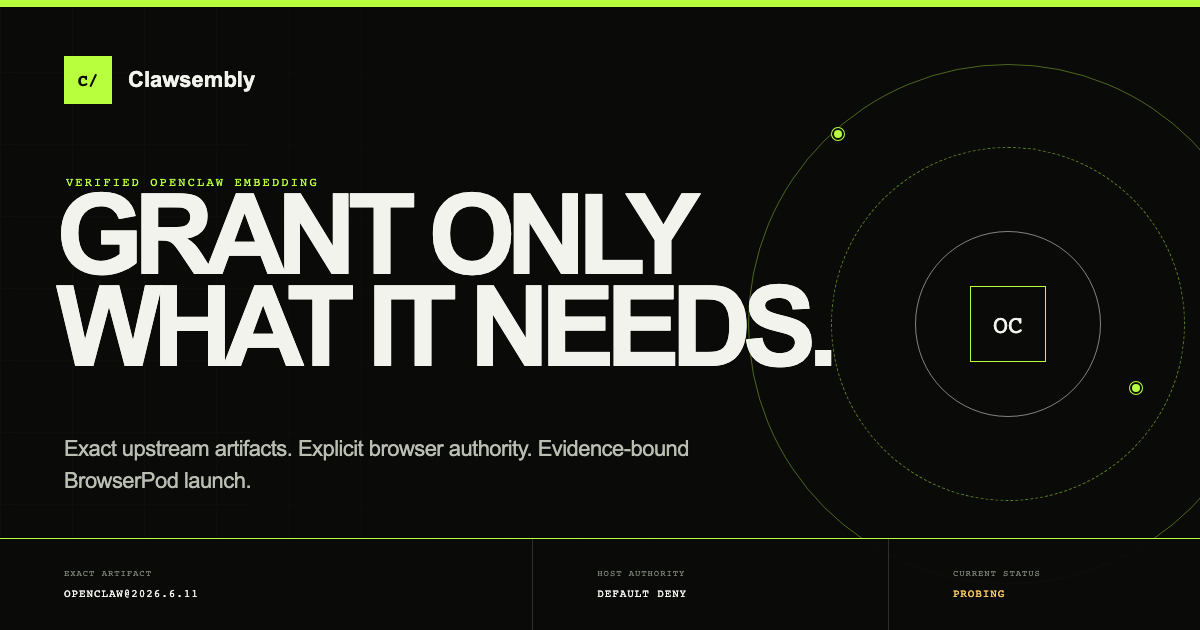
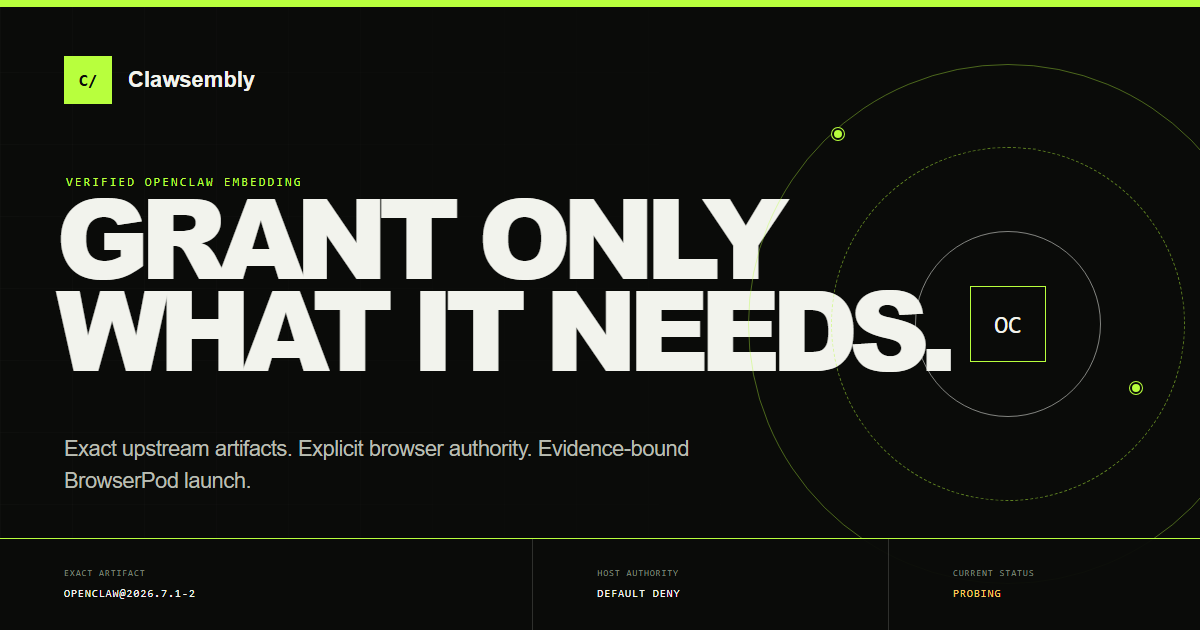
Record the reviewed 0.1.0-alpha.5 npm publication (#66)
The v0.1.0-alpha.5 release train completed: GitHub prerelease with the
nine-asset set, npm publish on the release event, dist-tag alpha now at
0.1.0-alpha.5. The registry tarball was verified byte-identical to the
local reproducible build (sha256 db4556988172bd…) and carries SLSA v1
provenance (Sigstore log index 2217334013). The publication record flips
to published with the registry integrity and timestamp, and the
CHANGELOG cuts the Unreleased section into 0.1.0-alpha.5.

diff --git a/CHANGELOG.md b/CHANGELOG.md
@@ -7,6 +7,10 @@ The project does not yet promise semantic-version compatibility.
 
 ## Unreleased
 
+No changes yet.
+
+## [0.1.0-alpha.5] - 2026-07-22
+
 ### Added
 
 - a public `@haya-inc/clawsembly/remote-gateway` subpath — "connect your